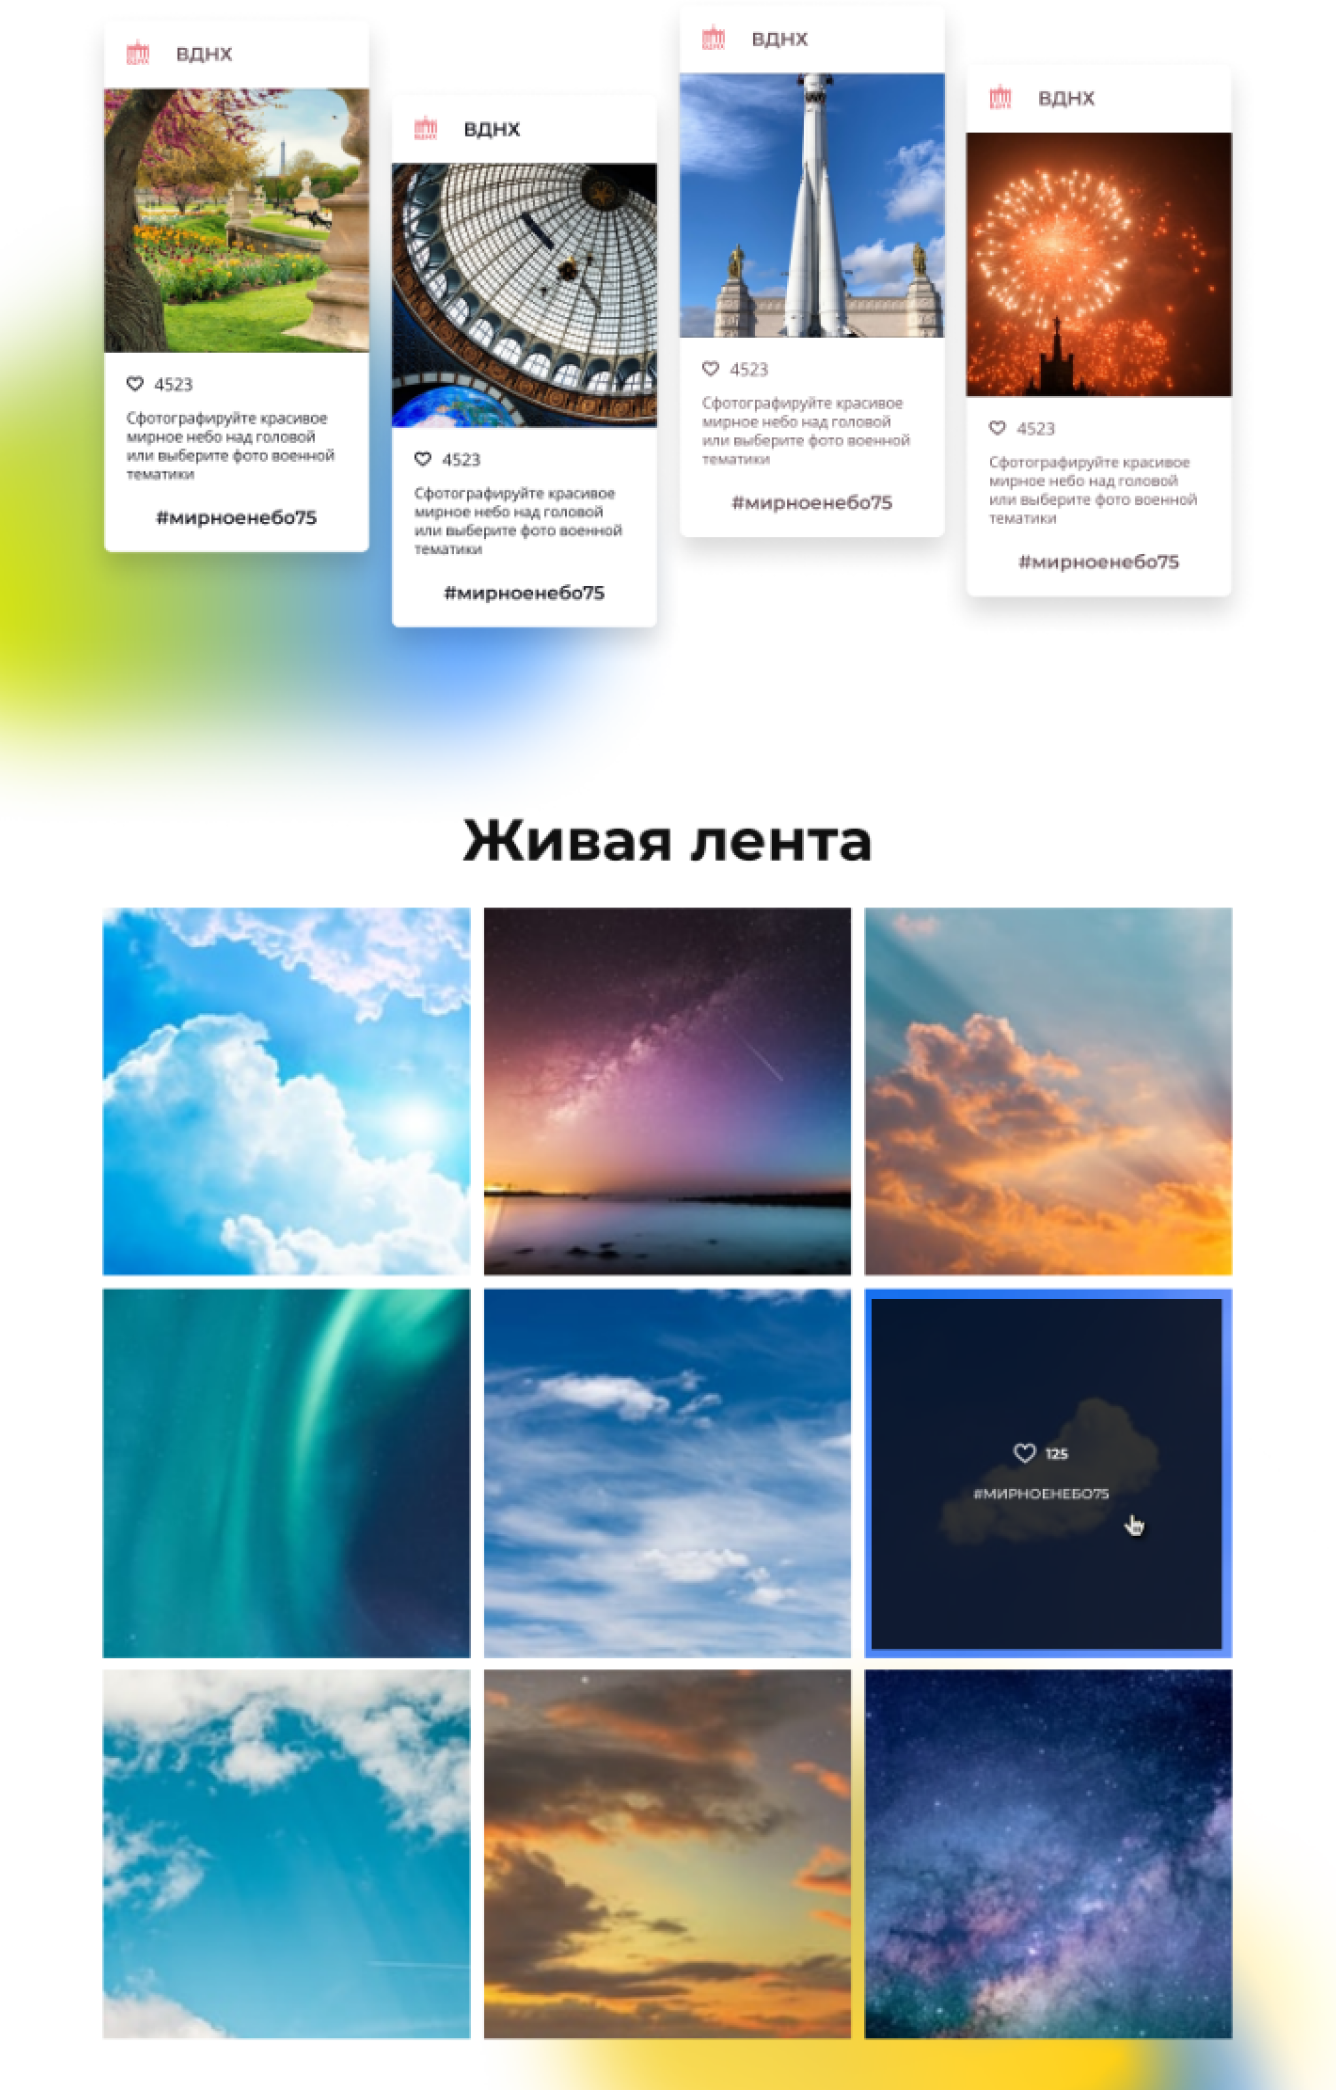
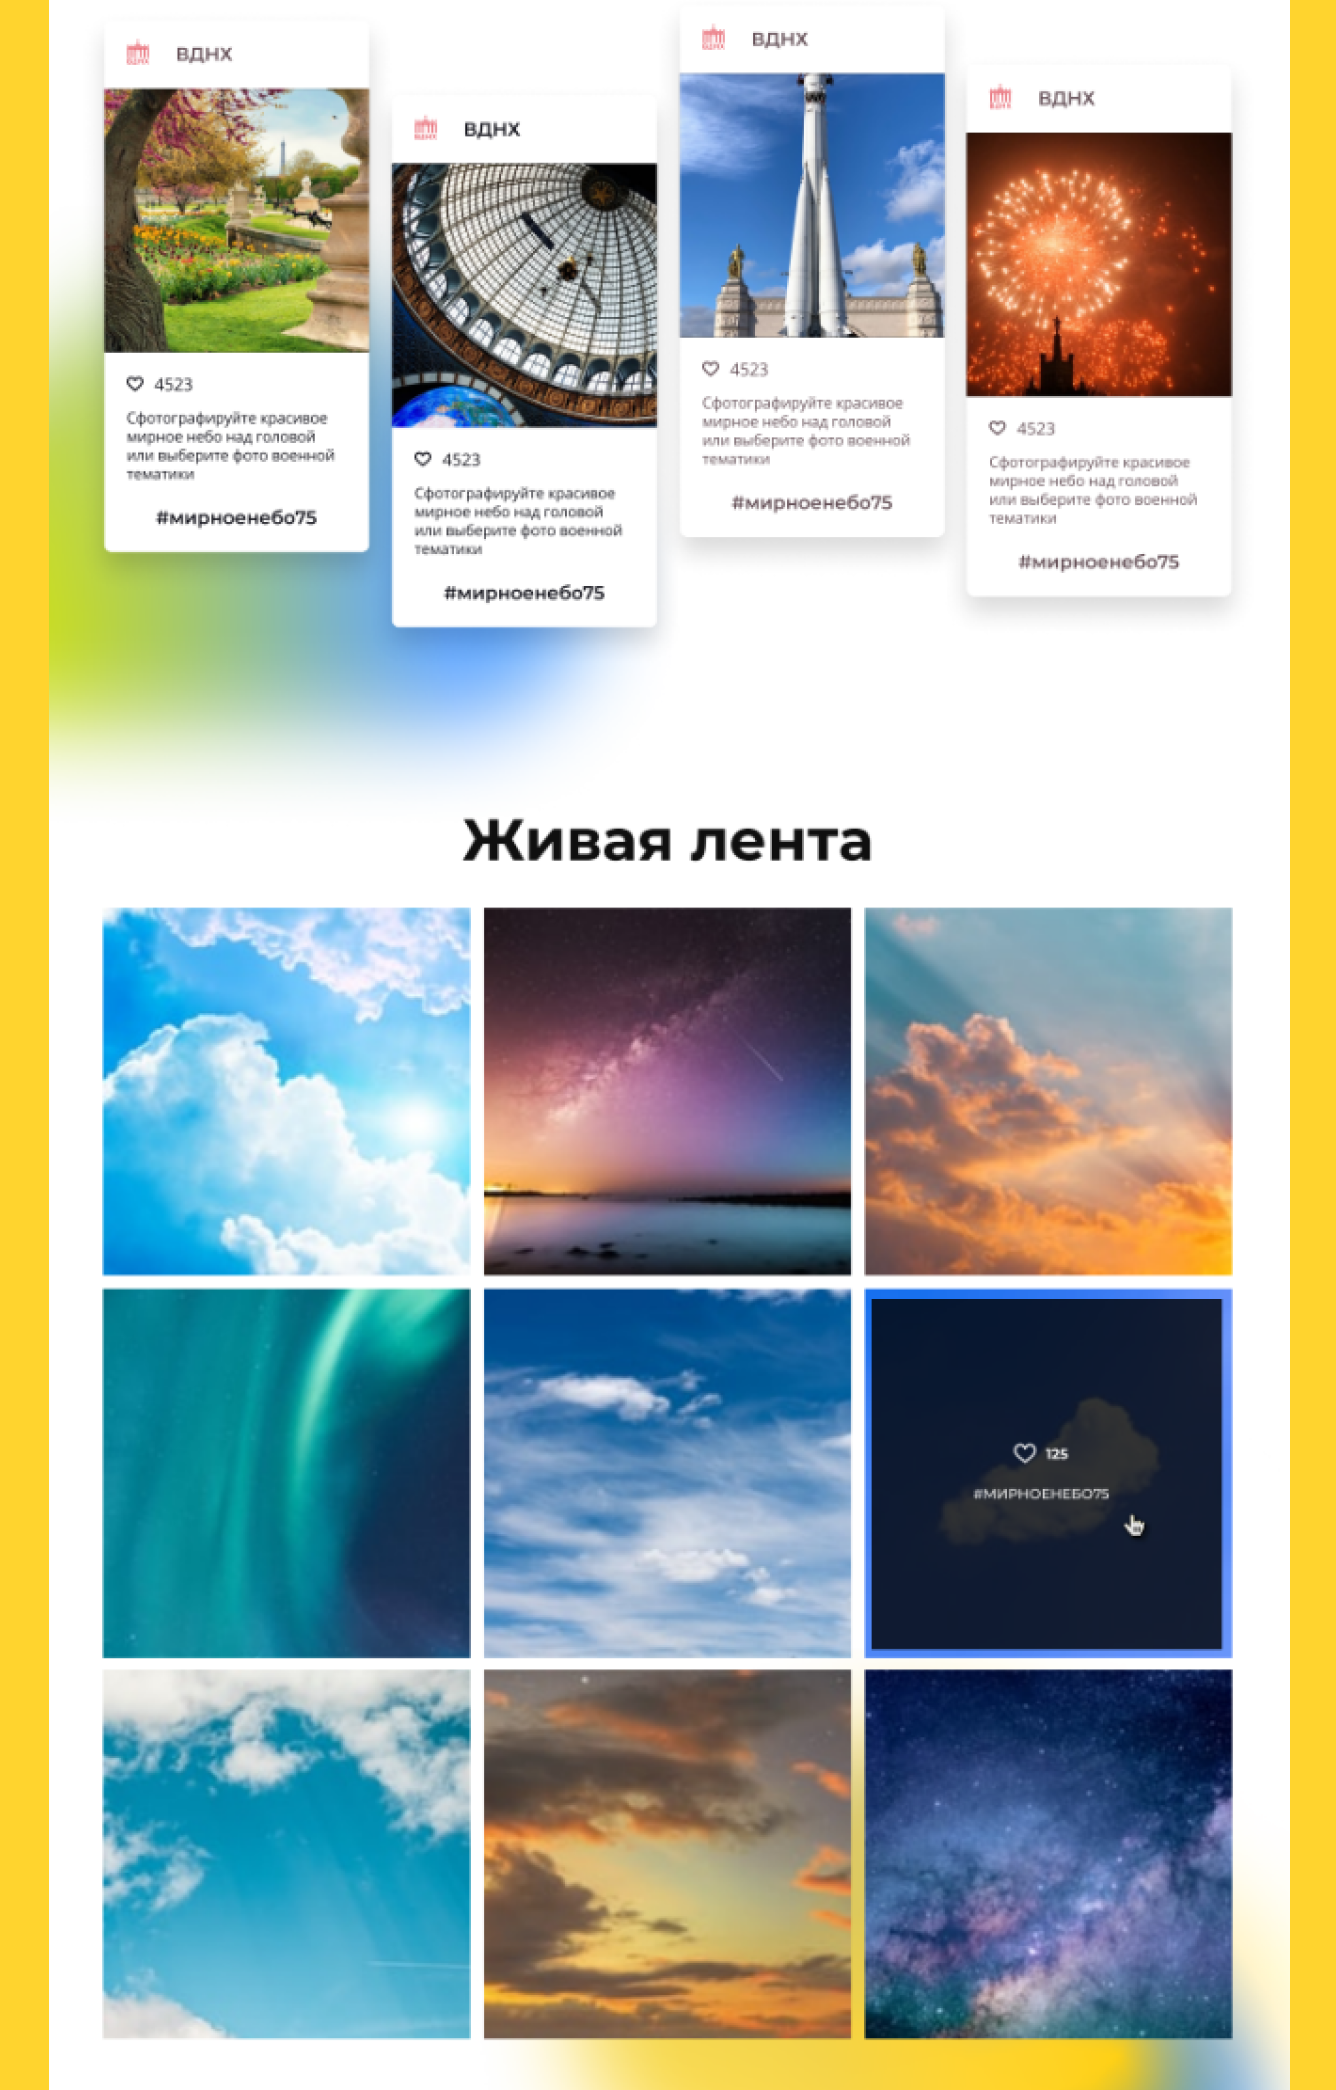
bee_dsrcm_update

Changed region(s): [[0.9513, 0.0, 1.0, 1.0], [0.0, 0.0, 0.0614, 1.0]]

diff --git a/src/content/cases/dsrcmmerch.md b/src/content/cases/dsrcmmerch.md
@@ -1,0 +1,100 @@
+---
+title: "DESERCOM"
+years: "Корпоративный mini-app и мерч"
+casetype: "#affiliate #telegram_miniapp #design #web_product #merch #HR"
+order: 11
+heading: "Создание мерч-пака и системы внутренней мотивации сотрудников"
+bg: "#EF3340"
+slides:
+  - src: "/cases/dsrcmmerch/dsrcmmerch0.webp"
+    type: "image"
+    order: 1
+    text: |
+      **ЗАДАЧА:**
+      повысить мотивацию и лояльность сотрудников, а также упростить онбординг новичков.
+
+      **ИНСАЙТ:**
+      нужна полноценная корпоративная экосистема в виде приложения.
+
+      **РЕШЕНИЕ:**
+      на основе Telegram API мы создали mini-app, который поощрял полезные для бренда активности внутренней валютой D$RCOIN. Там была создана система онбординга (welcome-book) с полной информацией о внутрянке бренда, мерчшоп, реферальная программа и даже развлекательные квизы.     
+
+      **ИТОГ:**
+      время на онбординг новых сотрудников уменьшилось в 2 раза. За 6 месяцев сотрудники приобрели >300 единиц мерча, и активно делились им в соцсетях. 
+  - src: "/cases/dsrcmmerch/dsrcmmerch1.webp"
+    type: "image"
+    order: 2
+    text: |
+      **ЗАДАЧА:**
+      повысить мотивацию и лояльность сотрудников, а также упростить онбординг новичков.
+
+      **ИНСАЙТ:**
+      нужна полноценная корпоративная экосистема в виде приложения.
+
+      **РЕШЕНИЕ:**
+      на основе Telegram API мы создали mini-app, который поощрял полезные для бренда активности внутренней валютой D$RCOIN. Там была создана система онбординга (welcome-book) с полной информацией о внутрянке бренда, мерчшоп, реферальная программа и даже развлекательные квизы.     
+
+      **ИТОГ:**
+      время на онбординг новых сотрудников уменьшилось в 2 раза. За 6 месяцев сотрудники приобрели >300 единиц мерча, и активно делились им в соцсетях. 
+  - src: "/cases/dsrcmmerch/dsrcmmerch2.webp"
+    type: "image"
+    order: 3
+    text: |
+      **ЗАДАЧА:**
+      повысить мотивацию и лояльность сотрудников, а также упростить онбординг новичков.
+
+      **ИНСАЙТ:**
+      нужна полноценная корпоративная экосистема в виде приложения.
+
+      **РЕШЕНИЕ:**
+      на основе Telegram API мы создали mini-app, который поощрял полезные для бренда активности внутренней валютой D$RCOIN. Там была создана система онбординга (welcome-book) с полной информацией о внутрянке бренда, мерчшоп, реферальная программа и даже развлекательные квизы.     
+
+      **ИТОГ:**
+      время на онбординг новых сотрудников уменьшилось в 2 раза. За 6 месяцев сотрудники приобрели >300 единиц мерча, и активно делились им в соцсетях. 
+  - src: "/cases/dsrcmmerch/dsrcmmerch3.webp"
+    type: "image"
+    order: 4
+    text: |
+      **ЗАДАЧА:**
+      повысить мотивацию и лояльность сотрудников, а также упростить онбординг новичков.
+
+      **ИНСАЙТ:**
+      нужна полноценная корпоративная экосистема в виде приложения.
+
+      **РЕШЕНИЕ:**
+      на основе Telegram API мы создали mini-app, который поощрял полезные для бренда активности внутренней валютой D$RCOIN. Там была создана система онбординга (welcome-book) с полной информацией о внутрянке бренда, мерчшоп, реферальная программа и даже развлекательные квизы.     
+
+      **ИТОГ:**
+      время на онбординг новых сотрудников уменьшилось в 2 раза. За 6 месяцев сотрудники приобрели >300 единиц мерча, и активно делились им в соцсетях. 
+  - src: "/cases/dsrcmmerch/dsrcmmerch4.webp"
+    type: "image"
+    order: 5
+    text: |
+      **ЗАДАЧА:**
+      повысить мотивацию и лояльность сотрудников, а также упростить онбординг новичков.
+
+      **ИНСАЙТ:**
+      нужна полноценная корпоративная экосистема в виде приложения.
+
+      **РЕШЕНИЕ:**
+      на основе Telegram API мы создали mini-app, который поощрял полезные для бренда активности внутренней валютой D$RCOIN. Там была создана система онбординга (welcome-book) с полной информацией о внутрянке бренда, мерчшоп, реферальная программа и даже развлекательные квизы.     
+
+      **ИТОГ:**
+      время на онбординг новых сотрудников уменьшилось в 2 раза. За 6 месяцев сотрудники приобрели >300 единиц мерча, и активно делились им в соцсетях. 
+  - src: "/cases/dsrcmmerch/dsrcmmerch5.webp"
+    type: "image"
+    order: 6
+    text: |
+      **ЗАДАЧА:**
+      повысить мотивацию и лояльность сотрудников, а также упростить онбординг новичков.
+
+      **ИНСАЙТ:**
+      нужна полноценная корпоративная экосистема в виде приложения.
+
+      **РЕШЕНИЕ:**
+      на основе Telegram API мы создали mini-app, который поощрял полезные для бренда активности внутренней валютой D$RCOIN. Там была создана система онбординга (welcome-book) с полной информацией о внутрянке бренда, мерчшоп, реферальная программа и даже развлекательные квизы.     
+
+      **ИТОГ:**
+      время на онбординг новых сотрудников уменьшилось в 2 раза. За 6 месяцев сотрудники приобрели >300 единиц мерча, и активно делились им в соцсетях. 
+
+---

diff --git a/src/content/cases/beenow.md b/src/content/cases/beenow.md
@@ -1,0 +1,85 @@
+---
+title: "БИЛАЙН.NOW"
+years: "Фирменный стиль B2B"
+casetype: "#telecom #branding #design #b2b_strategy #SMM #media"
+order: 12
+heading: "Создание нового дизайна b2b-коммуникаций Билайн"
+bg: "#FDD91F"
+slides:
+  - src: "/cases/beenow/beenow0.webp"
+    type: "image"
+    order: 1
+    text: |
+      **ЗАДАЧА:**
+      разработать новую визуальную айдентику суб-бренда Билайн.NOW для применения в SMM, медиа и корпоративной отчетности.
+
+      **ИНСАЙТ:**
+      чтобы отразить технологичность, дизайн должен быть современным.
+
+      **РЕШЕНИЕ:**
+      при разработке дизайна мы опирались на тренды того времени (2021 года): ОП-арт с «рябящим» эффектом, который невольно цепляет взгляд наблюдателя. Этот подход не только освежил стиль, но и помог выделиться на фоне конкурентов.   
+
+      **ИТОГ:**
+      новый дизайн привел к увеличению показателей охватов и комментирования в b2b-сообществах. 
+  - src: "/cases/beenow/beenow1.webp"
+    type: "image"
+    order: 2
+    text: |
+      **ЗАДАЧА:**
+      разработать новую визуальную айдентику суб-бренда Билайн.NOW для применения в SMM, медиа и корпоративной отчетности.
+
+      **ИНСАЙТ:**
+      чтобы отразить технологичность, дизайн должен быть современным.
+
+      **РЕШЕНИЕ:**
+      при разработке дизайна мы опирались на тренды того времени (2021 года): ОП-арт с «рябящим» эффектом, который невольно цепляет взгляд наблюдателя. Этот подход не только освежил стиль, но и помог выделиться на фоне конкурентов.   
+
+      **ИТОГ:**
+      новый дизайн привел к увеличению показателей охватов и комментирования в b2b-сообществах. 
+  - src: "/cases/beenow/beenow2.webp"
+    type: "image"
+    order: 3
+    text: |
+      **ЗАДАЧА:**
+      разработать новую визуальную айдентику суб-бренда Билайн.NOW для применения в SMM, медиа и корпоративной отчетности.
+
+      **ИНСАЙТ:**
+      чтобы отразить технологичность, дизайн должен быть современным.
+
+      **РЕШЕНИЕ:**
+      при разработке дизайна мы опирались на тренды того времени (2021 года): ОП-арт с «рябящим» эффектом, который невольно цепляет взгляд наблюдателя. Этот подход не только освежил стиль, но и помог выделиться на фоне конкурентов.   
+
+      **ИТОГ:**
+      новый дизайн привел к увеличению показателей охватов и комментирования в b2b-сообществах. 
+  - src: "/cases/beenow/beenow3.webp"
+    type: "image"
+    order: 4
+    text: |
+      **ЗАДАЧА:**
+      разработать новую визуальную айдентику суб-бренда Билайн.NOW для применения в SMM, медиа и корпоративной отчетности.
+
+      **ИНСАЙТ:**
+      чтобы отразить технологичность, дизайн должен быть современным.
+
+      **РЕШЕНИЕ:**
+      при разработке дизайна мы опирались на тренды того времени (2021 года): ОП-арт с «рябящим» эффектом, который невольно цепляет взгляд наблюдателя. Этот подход не только освежил стиль, но и помог выделиться на фоне конкурентов.   
+
+      **ИТОГ:**
+      новый дизайн привел к увеличению показателей охватов и комментирования в b2b-сообществах. 
+  - src: "/cases/beenow/beenow4.webp"
+    type: "image"
+    order: 5
+    text: |
+      **ЗАДАЧА:**
+      разработать новую визуальную айдентику суб-бренда Билайн.NOW для применения в SMM, медиа и корпоративной отчетности.
+
+      **ИНСАЙТ:**
+      чтобы отразить технологичность, дизайн должен быть современным.
+
+      **РЕШЕНИЕ:**
+      при разработке дизайна мы опирались на тренды того времени (2021 года): ОП-арт с «рябящим» эффектом, который невольно цепляет взгляд наблюдателя. Этот подход не только освежил стиль, но и помог выделиться на фоне конкурентов.   
+
+      **ИТОГ:**
+      новый дизайн привел к увеличению показателей охватов и комментирования в b2b-сообществах. 
+
+---

diff --git a/src/content/cases/raff.md b/src/content/cases/raff.md
@@ -2,7 +2,7 @@
 title: "RAFFAELLO"
 years: "SMM-Спецпроект"
 casetype: "#FMCG #web_design #web_product #SMM"
-order: 11
+order: 13
 heading: "Кампания #КакЛюбитеВы"
 bg: "#EDBFC9"
 slides: